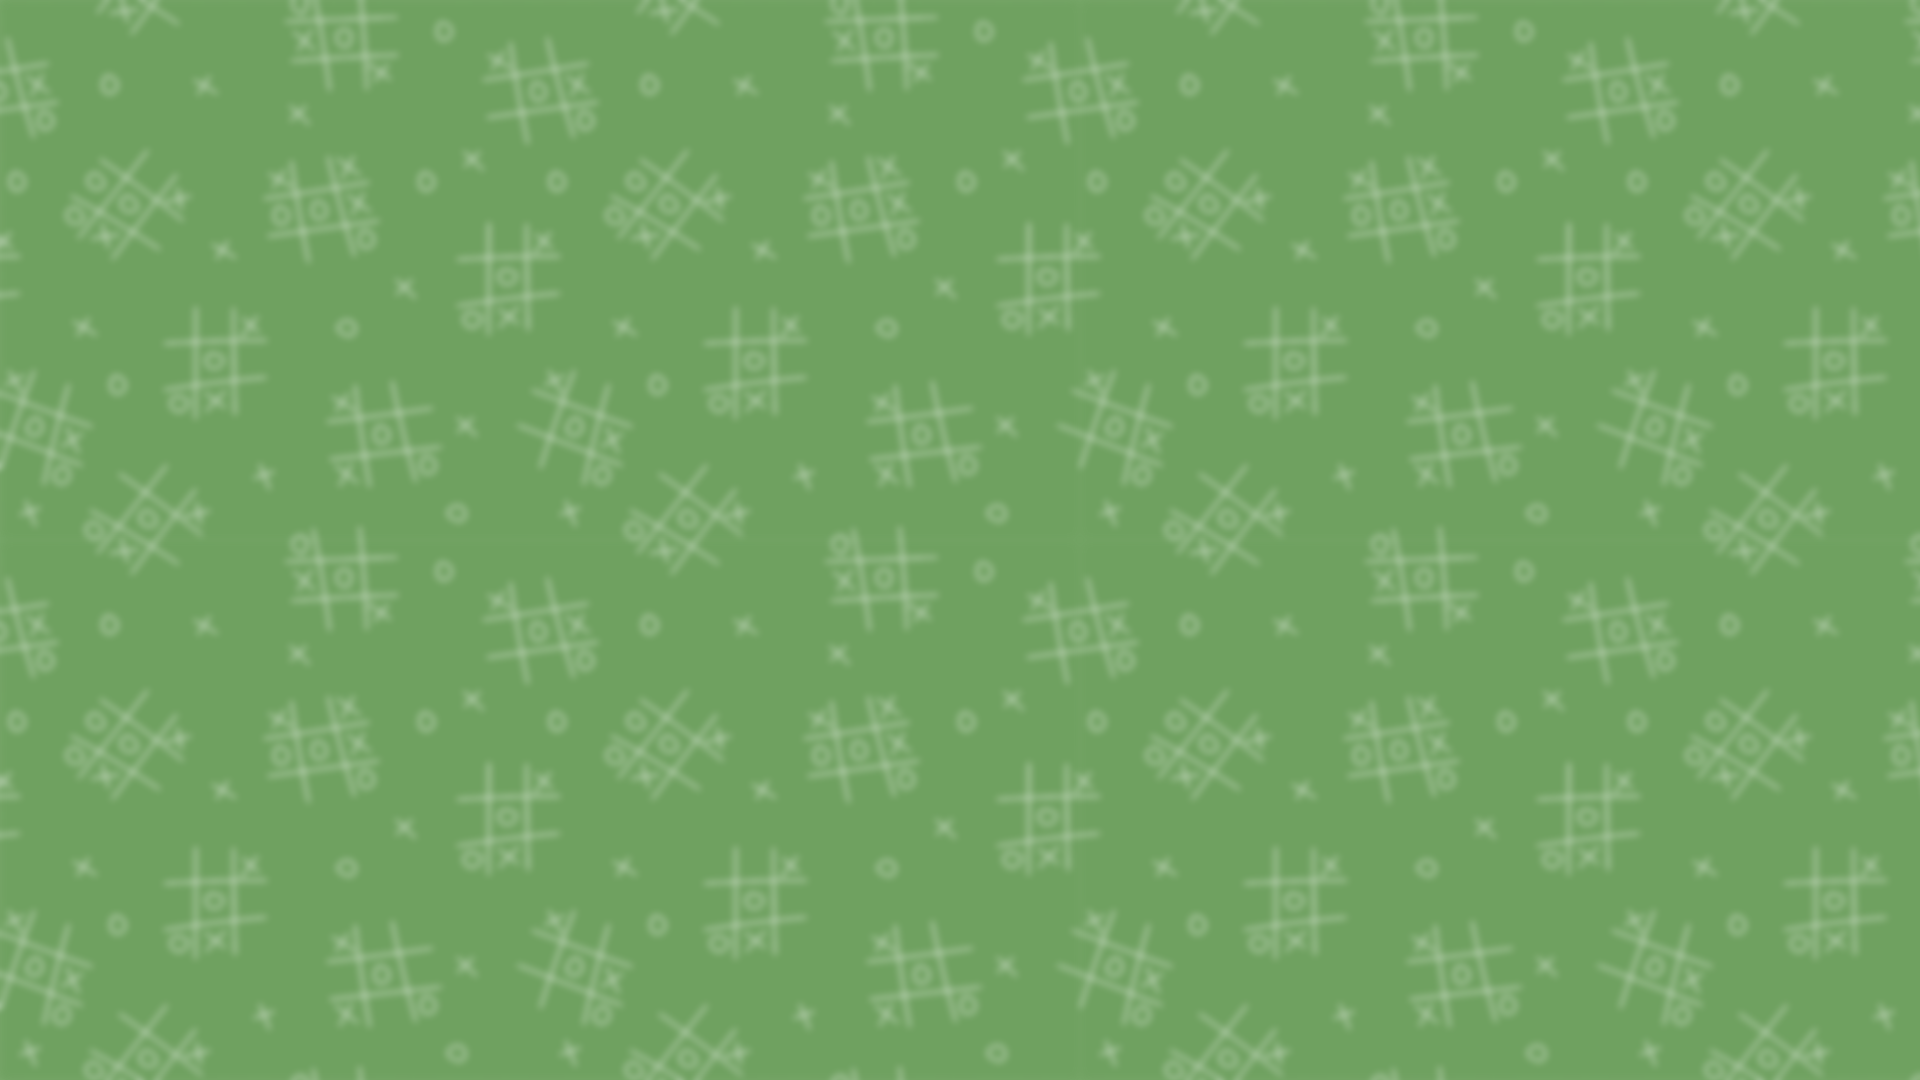
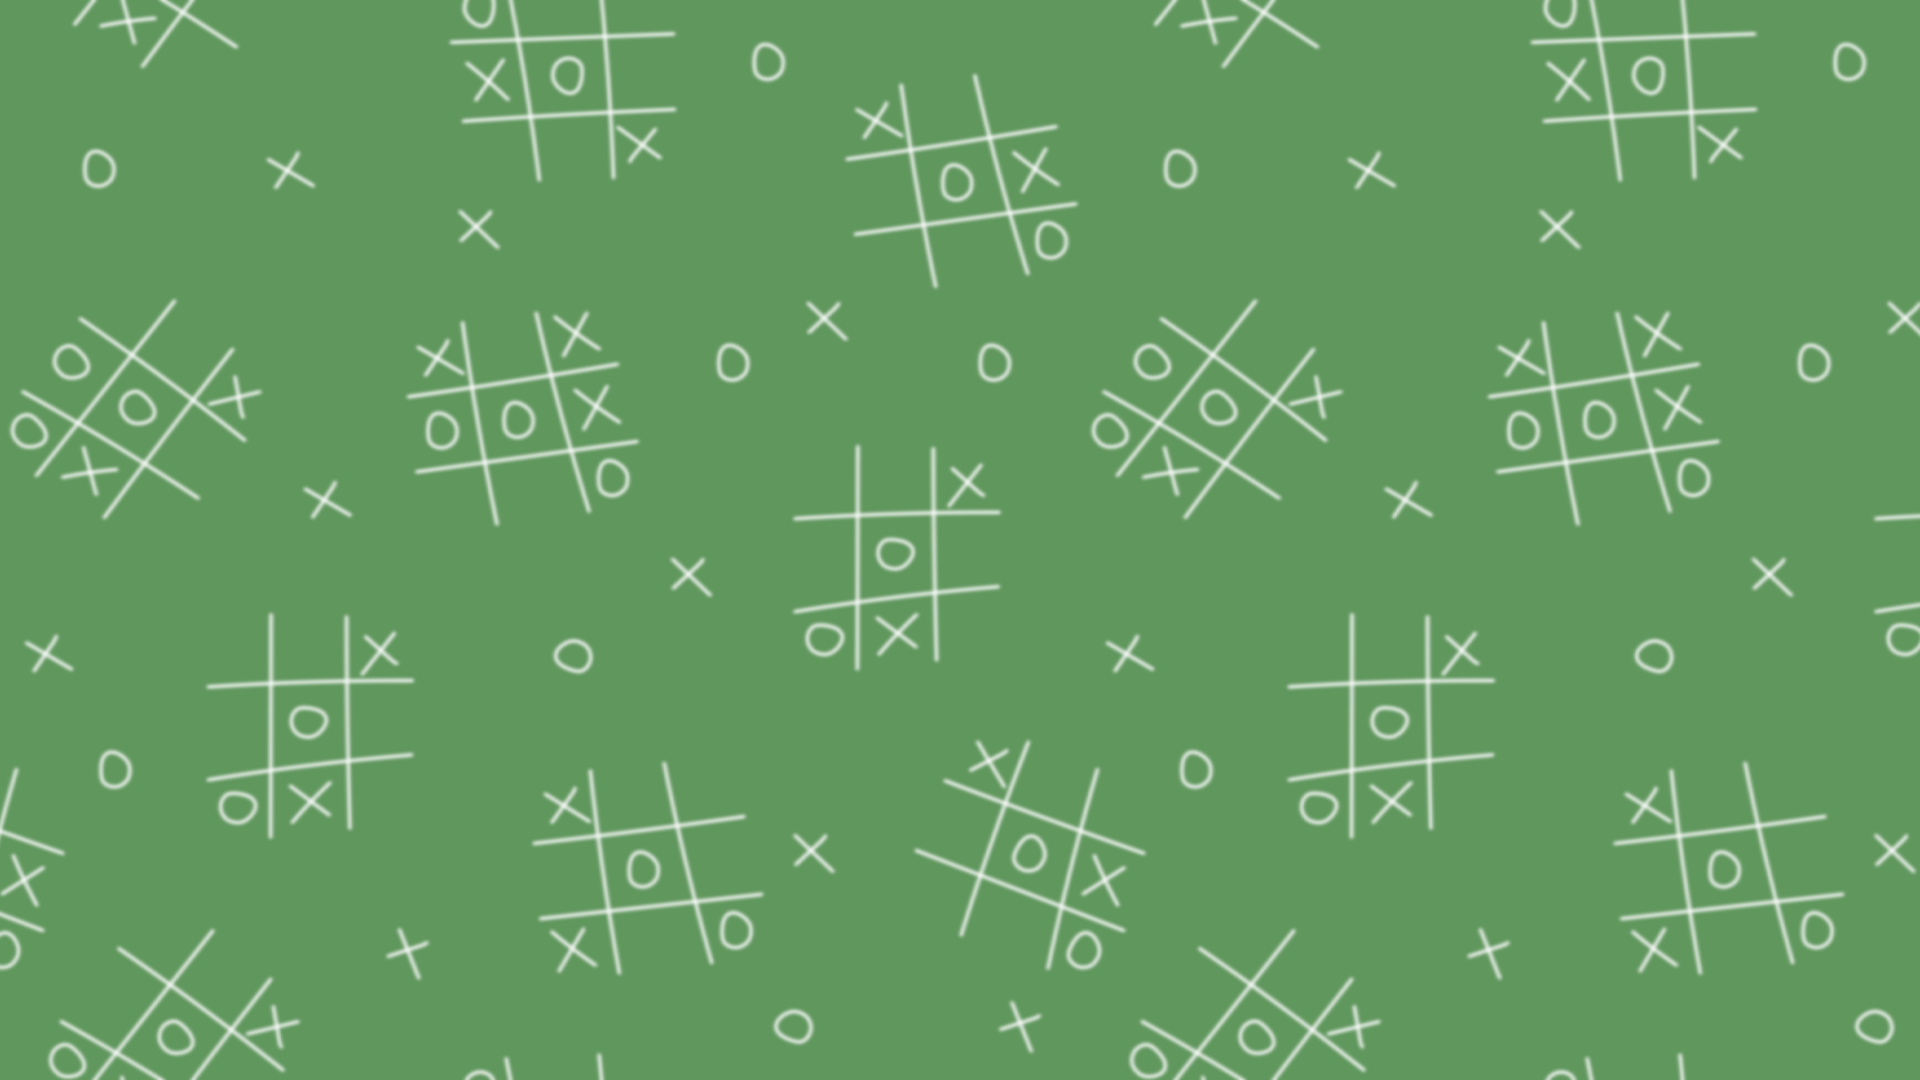
Changes background image and added new pages.

diff --git a/client/src/pages/Game.js b/client/src/pages/Game.js
@@ -1,0 +1,55 @@
+import { useState, useEffect } from "react";
+import { useNavigate } from "react-router-dom";
+import Cookies from "js-cookie";
+import "./styles/Game.css";
+
+const Game = () => {
+    const [login, setLogin] = useState(Cookies.get("login"));
+    const navigate = useNavigate();
+
+    useEffect(() => {
+        if (login === undefined) {
+            navigate("/auth/sign-in");
+        }
+    });
+
+    return (
+        <div className="game-container">
+            <div className="game-container-form">
+                <div className="game-container-item">
+                    <p className="game-container-item-title">Tic-Tac-Toe</p>
+                </div>
+            </div>
+            <div className="game-container-form">
+                <div className="game-container-item">
+                    <div className="game-container-item-row">
+                        <div className="game-container-item-cell"></div>
+                        <div className="game-container-item-cell"></div>
+                        <div className="game-container-item-cell"></div>
+                    </div>
+                    <div className="game-container-item-row">
+                        <div className="game-container-item-cell"></div>
+                        <div className="game-container-item-cell"></div>
+                        <div className="game-container-item-cell"></div>
+                    </div>
+                    <div className="game-container-item-row">
+                        <div className="game-container-item-cell"></div>
+                        <div className="game-container-item-cell"></div>
+                        <div className="game-container-item-cell"></div>
+                    </div>
+                </div>
+            </div>
+            <div className="game-container-form">
+                <div className="game-container-item">
+                    <span className="game-container-item-text">
+                        {login.charAt(0).toUpperCase() + login.slice(1)}
+                    </span>
+                    <span className="game-container-item-text">VS</span>
+                    <span className="game-container-item-text">BOT</span>
+                </div>
+            </div>
+        </div>
+    );
+};
+
+export default Game;

diff --git a/client/src/pages/Menu.js b/client/src/pages/Menu.js
@@ -1,24 +1,38 @@
-import { useEffect } from "react";
+import { useState, useEffect } from "react";
 import { useNavigate } from "react-router-dom";
 import Cookies from "js-cookie";
 import "./styles/Menu.css";
 import Button from "../elements/Button";
+import PopUp from "../elements/PopUp";
 
 const Menu = () => {
+    const [login, setLogin] = useState(Cookies.get("login"));
+    const [message, setMessage] = useState("");
     const navigate = useNavigate();
 
     useEffect(() => {
-        if (Cookies.get("login") === undefined) {
+        if (login === undefined) {
             navigate("/auth/sign-in");
         }
     });
 
     const handleOnClickStart = (e) => {
         e.preventDefault();
+        if (login === undefined) {
+            navigate("/auth/sign-in");   
+        }
+        else {
+            navigate("/game");
+        }
     };
 
     const handleOnClickShowStatistic = (e) => {
         e.preventDefault();
+        if (login === "guest") {
+            setMessage("Guests can't see statistic 🐱");
+        } else {
+            navigate("/statistic");
+        }
     };
 
     const handleOnClickLogOut = (e) => {
@@ -29,10 +43,11 @@ const Menu = () => {
 
     return (
         <div className="menu-container">
+            {message ? <PopUp text={message} setText={setMessage} /> : <></>}
             <div className="menu-container-form">
                 <div className="menu-container-item">
                     <p className="menu-container-item-title">
-                        Welcome, {Cookies.get("login").charAt(0).toUpperCase() + Cookies.get("login").slice(1)}!
+                        Welcome, {login ? login.charAt(0).toUpperCase() + login.slice(1) : ''}!
                     </p>
                 </div>
             </div>

diff --git a/client/src/pages/styles/Game.css b/client/src/pages/styles/Game.css
@@ -1,0 +1,51 @@
+.game-container {
+    display: flex;
+    justify-content: center;
+    flex-direction: column;
+    height: 100vh;
+}
+
+.game-container-form {
+    background-color: var(--first-color);
+    border-radius: 10px;
+    text-align: center;
+    margin: 0 25%;
+    box-shadow: 0px 0px 7px black;
+    animation: pop-up 0.3s;
+}
+
+.game-container-form:first-of-type {
+    margin-bottom: 1%;
+}
+
+.game-container-form:first-of-type Button {
+    margin-left: 1%;
+    margin-right: -8.5%;
+}
+
+.game-container-form:nth-of-type(2) {
+    margin-bottom: 1%;
+}
+
+.game-container-form span:nth-of-type(2) {
+    font-family: var(--font-family-default);
+    font-size: var(--font-size-extra-large);
+    margin: 0 10%;
+}
+
+.game-container-item {
+    margin: 2% 0;
+}
+
+.game-container-item * {
+    font-size: var(--font-size-default);
+}
+
+.game-container-item-title {
+    font-family: var(--font-family-default);
+    font-size: var(--font-size-extra-large);
+}
+
+.game-container-item-text {
+    font-size: var(--font-size-large);
+}

diff --git a/client/src/index.css b/client/src/index.css
@@ -1,15 +1,14 @@
 :root {
-    --first-color: #26943c;
-    --first-color-lighter: #41b458;
-    --first-color-darker: #085918;
-    --second-color: #73d579;
-    --third-color: #bef4c5;
-    --third-color-darker: #a4d1a9;
+    --first-color: #179a47;
+    --first-color-lighter: #41b46b;
+    --first-color-darker: #085926;
+    --second-color: #73d587;
+    --third-color: #bef4c9;
+    --third-color-darker: #a4d1ac;
 
     --font-family-light: "Calibri Light";
     --font-family-default: "Calibri";
     --font-size-extra-large: 38px;
-    --font-size-extra-extra-large: 42px;
     --font-size-large: 32px;
     --font-size-default: 26px;
     --font-size-small: 20px;
@@ -51,5 +50,5 @@
 
 @keyframes slide {
     from { background-position: 0 0; }
-    to { background-position: 0 -315.4%; }
+    to { background-position: 0 1080px; }
 }

diff --git a/client/src/pages/styles/Menu.css b/client/src/pages/styles/Menu.css
@@ -10,12 +10,13 @@
     border-radius: 10px;
     text-align: center;
     margin: 0 25%;
+    margin-bottom: 1%;
     box-shadow: 0px 0px 7px black;
     animation: pop-up 0.3s;
 }
 
-.menu-container-form:first-of-type {
-    margin-bottom: 1%;
+.menu-container-form:last-of-type {
+    margin-bottom: -1%;
 }
 
 .menu-container-item {
@@ -24,12 +25,12 @@
 
 .menu-container-item * {
     margin: 0% 0;
-    font-size: var(--font-size-large);
+    font-size: var(--font-size-default);
 }
 
 .menu-container-item-title {
     font-family: var(--font-family-default);
-    font-size: var(--font-size-extra-extra-large);
+    font-size: var(--font-size-extra-large);
     margin: 3% 0;
 }
 

diff --git a/client/src/index.js b/client/src/index.js
@@ -5,6 +5,8 @@ import "./index.css";
 import Auth from "./pages/Auth.js";
 import CreateAccount from "./pages/CreateAccount.js";
 import Menu from "./pages/Menu.js";
+import Game from "./pages/Game.js";
+import Statistic from "./pages/Statistic.js";
 
 const router = createBrowserRouter([
     {
@@ -22,6 +24,14 @@ const router = createBrowserRouter([
     {
         path: "/menu",
         element: <Menu />,
+    },
+    {
+        path: "/game",
+        element: <Game />,
+    },
+    {
+        path: "/statistic",
+        element: <Statistic />,
     },
 ]);
 

diff --git a/client/src/pages/Statistic.js b/client/src/pages/Statistic.js
@@ -1,0 +1,18 @@
+import { useState, useEffect } from "react";
+import { useNavigate } from "react-router-dom";
+import Cookies from "js-cookie";
+
+const Statistic = () => {
+    const [login, setLogin] = useState(Cookies.get("login"));
+    const navigate = useNavigate();
+
+    useEffect(() => {
+        if (login === undefined) {
+            navigate("/auth/sign-in");
+        }
+    });
+
+    return <div>Statistic</div>;
+};
+
+export default Statistic;

diff --git a/server/controllers/user-controller.js b/server/controllers/user-controller.js
@@ -38,9 +38,6 @@ export default class UserController {
         const query = `INSERT INTO users (login, password) VALUES ('${login}', '${hasher.MD5(
             password
         )}');`;
-        if (connectionDatabase.state == "disconnected") {
-            connectionDatabase.connect
-        }
         connectionDatabase.query(query, (error) => {
             if (error) {
                 callback(
